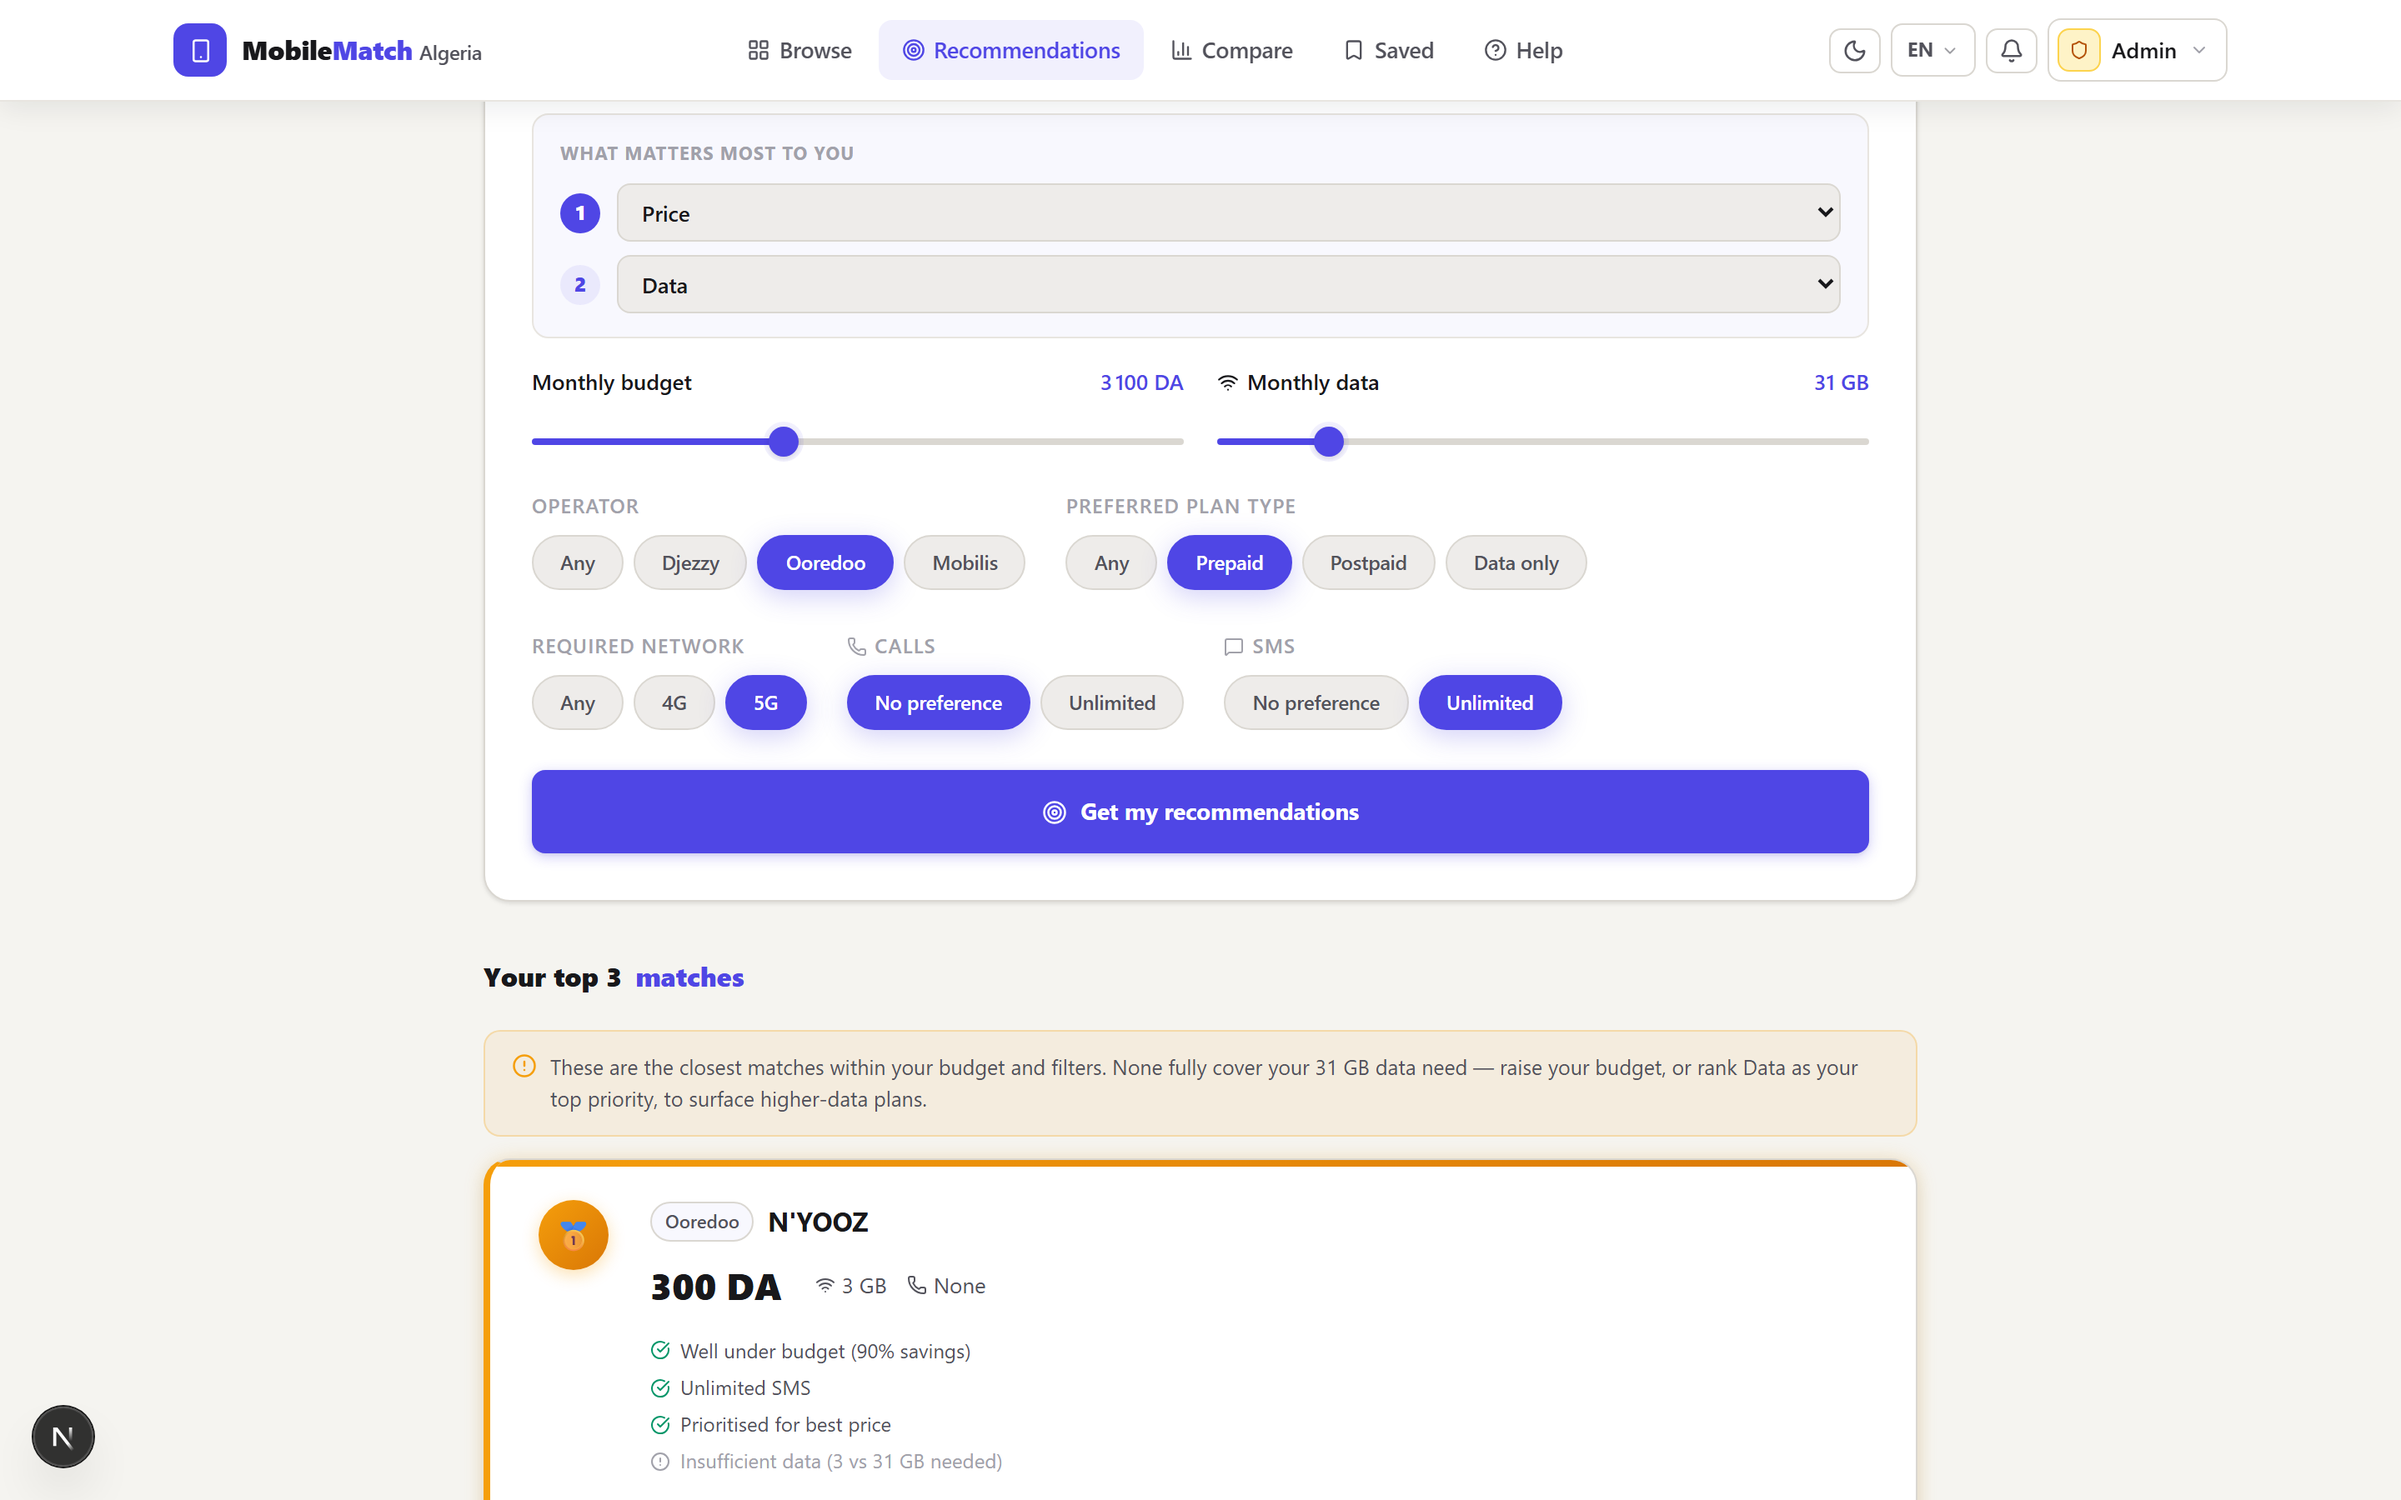
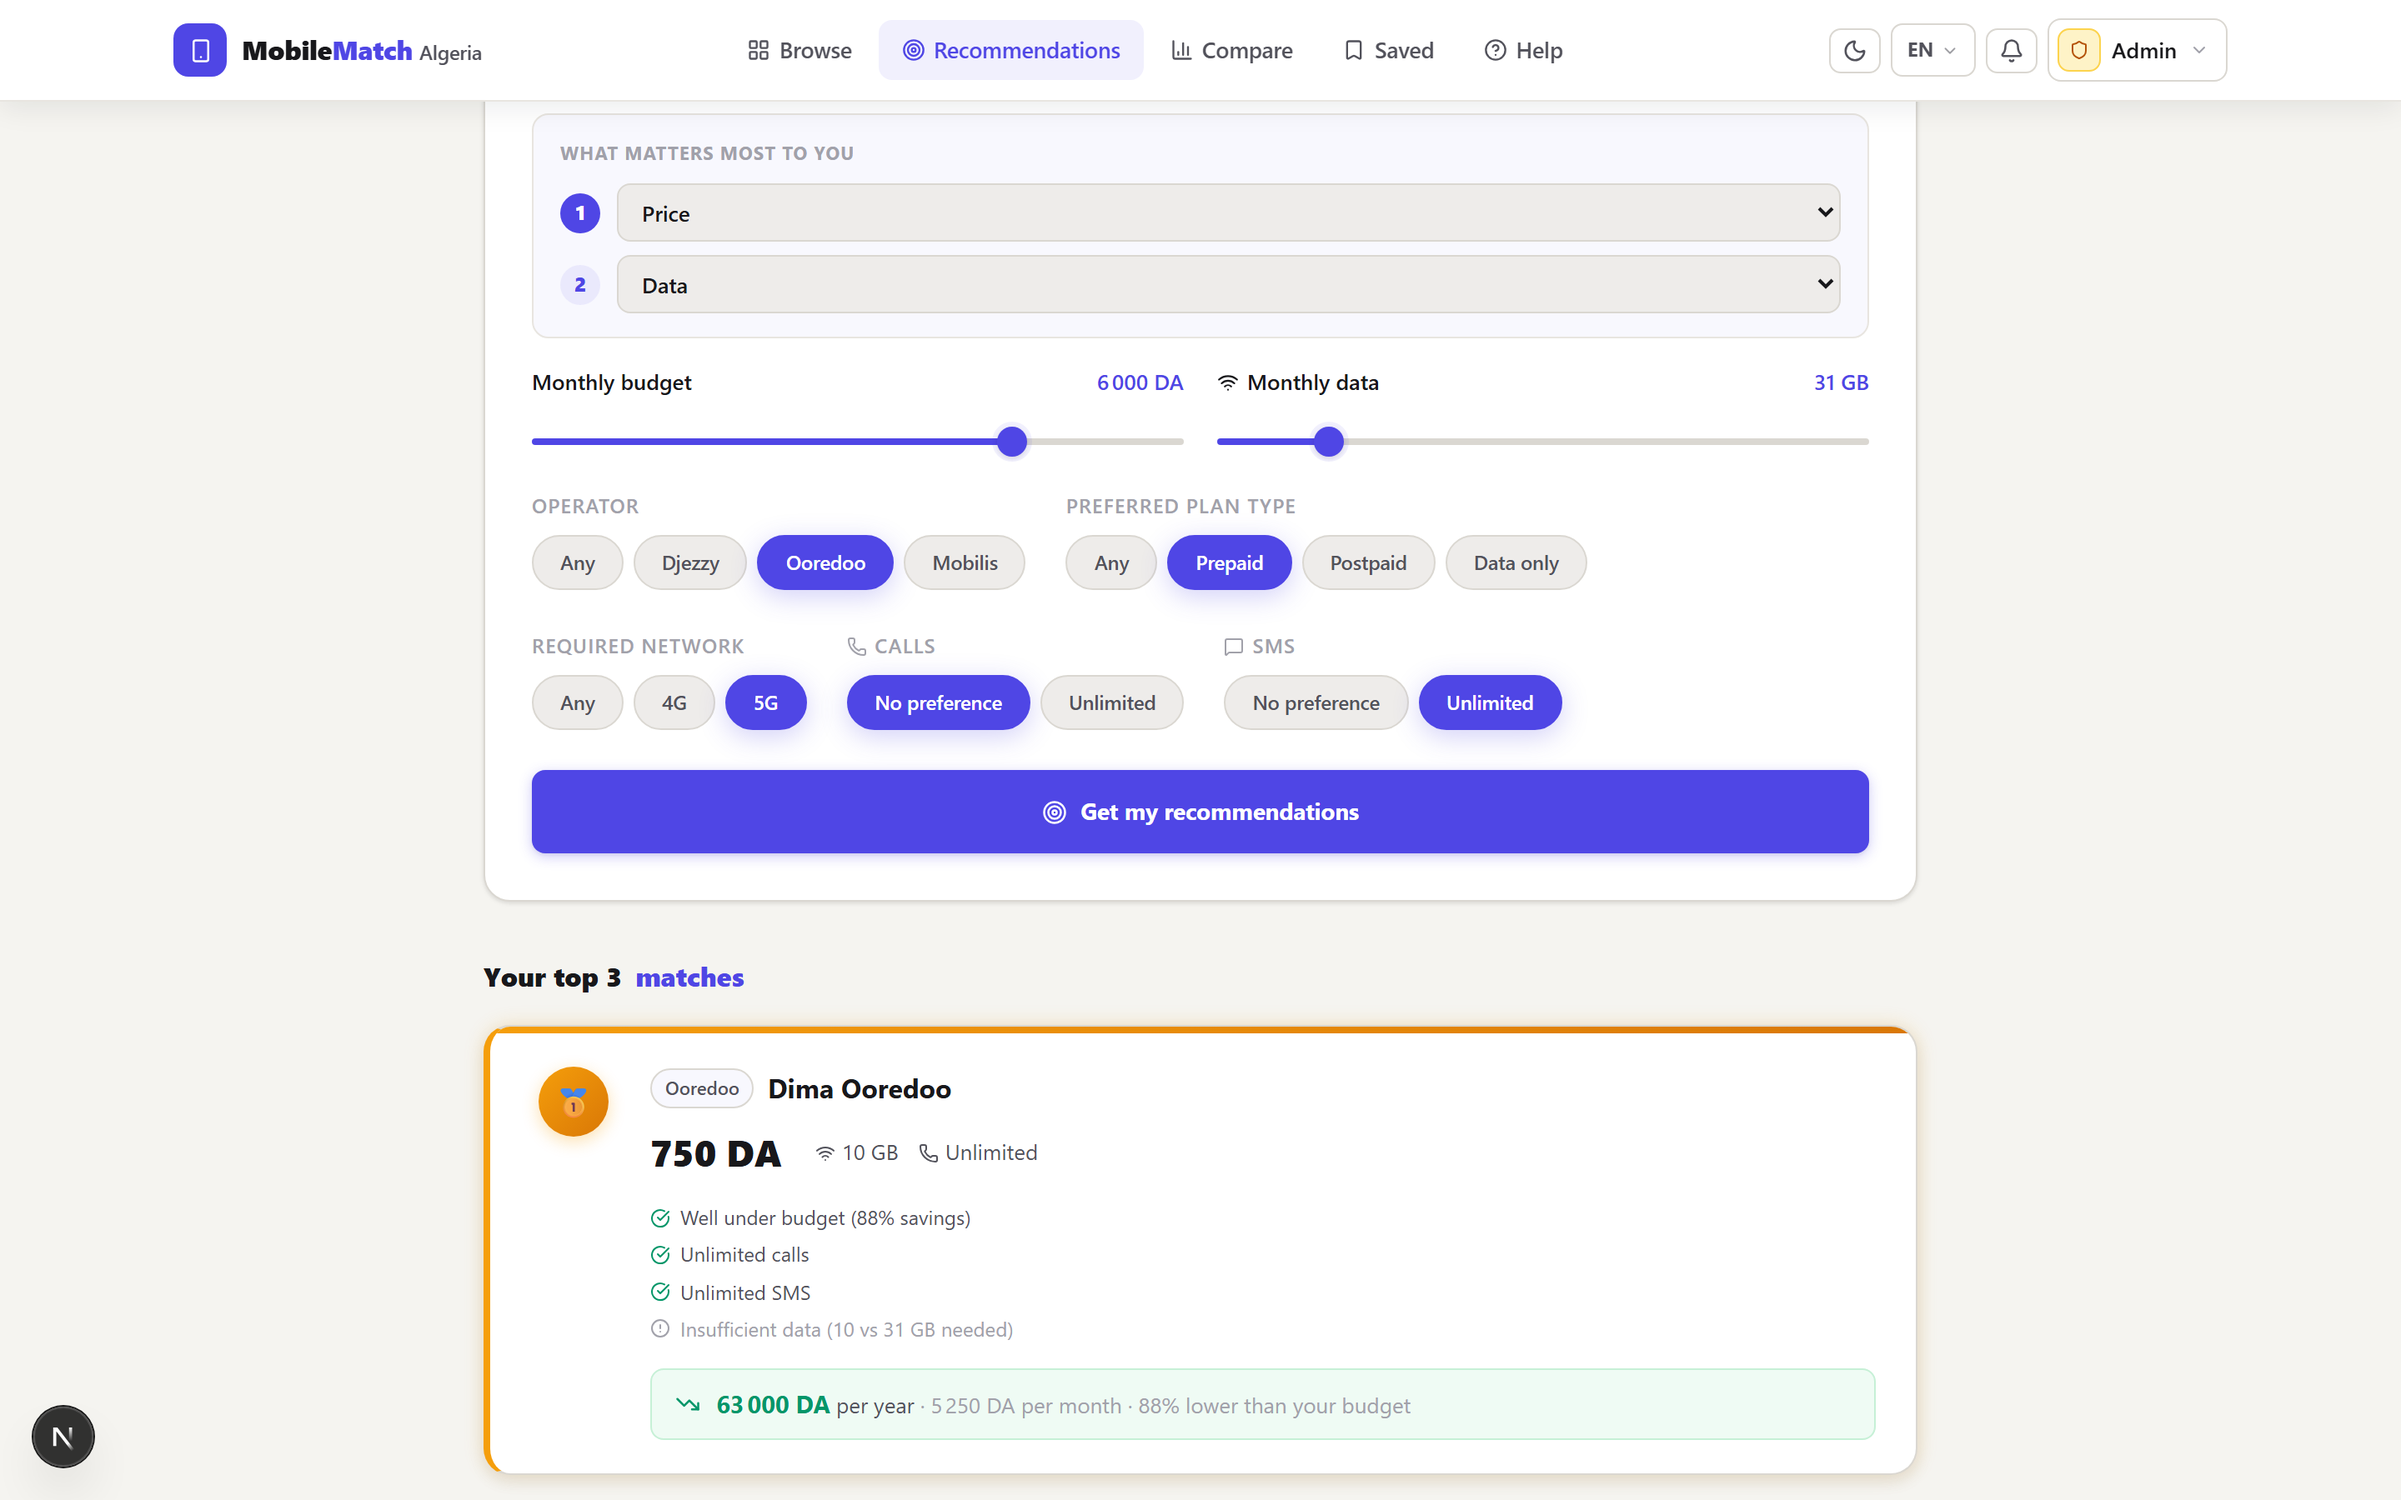
revert(recommend): remove the data-need shortfall notice
Removed the amber notice (and its FR/EN/AR i18n keys) shown when no result met the
stated data need — it added clutter without real value. The engine and its strict
priority behaviour are unchanged; the per-card 'Insufficient data' reason already
conveys the shortfall.

Changed region(s): [[0.1875, 0.6844, 0.8125, 1.0], [0.3125, 0.28, 0.4375, 0.3111]]

diff --git a/src/lib/i18n.ts b/src/lib/i18n.ts
@@ -194,7 +194,6 @@ export const translations = {
     'recommend.rankedBy':        'Ranked by match score based on your profile',
     'recommend.match':           'match',
     'recommend.noResults':       'No offers match your criteria. Try adjusting your budget or data requirements.',
-    'recommend.needNotice':      'These are the closest matches within your budget and filters. None fully cover your {data} GB data need — raise your budget, or rank Data as your top priority, to surface higher-data plans.',
     'recommend.adjustCriteria':  'Adjust my criteria',
     'recommend.adjustPanel':     'Adjust criteria',
     'recommend.updating':        'Updating...',
@@ -565,7 +564,6 @@ export const translations = {
     'recommend.rankedBy':        'Classé par score de correspondance selon votre profil',
     'recommend.match':           'correspondance',
     'recommend.noResults':       "Aucune offre ne correspond à vos critères. Essayez d'ajuster votre budget ou vos besoins en data.",
-    'recommend.needNotice':      "Voici les meilleures correspondances dans votre budget et vos filtres. Aucune ne couvre vos {data} Go demandés — augmentez votre budget, ou classez Data en priorité n°1, pour voir des forfaits avec plus de données.",
     'recommend.adjustCriteria':  'Ajuster mes critères',
     'recommend.adjustPanel':     'Ajuster les critères',
     'recommend.updating':        'Mise à jour...',
@@ -936,7 +934,6 @@ export const translations = {
     'recommend.rankedBy':        'مرتبة حسب نقاط التطابق مع ملفك الشخصي',
     'recommend.match':           'تطابق',
     'recommend.noResults':       'لا توجد عروض تطابق معاييرك. حاول تعديل ميزانيتك أو احتياجاتك من البيانات.',
-    'recommend.needNotice':      'هذه أقرب العروض ضمن ميزانيتك ومرشحاتك. لا يغطي أيٌّ منها حاجتك البالغة {data} جيغا — ارفع ميزانيتك، أو اجعل البيانات أولويتك الأولى، لرؤية عروض ببيانات أكبر.',
     'recommend.adjustCriteria':  'تعديل معاييري',
     'recommend.adjustPanel':     'تعديل المعايير',
     'recommend.updating':        'جاري التحديث...',

diff --git a/src/app/recommend/page.tsx b/src/app/recommend/page.tsx
@@ -351,23 +351,6 @@ export default function RecommendPage() {
                 )}
               </div>
 
-              {/* Need-shortfall notice — the engine honours the user's priority order,
-                  so it may top-rank a cheap low-data plan; if NONE of the results actually
-                  cover the stated data need, say so plainly and offer the way to fix it. */}
-              {!loading && results.length > 0 && dataGB > 0 &&
-                results.every(r => r.offer?.dataGB !== -1 && r.offer?.dataGB < dataGB) && (
-                <div style={{
-                  display: 'flex', gap: 8, alignItems: 'flex-start',
-                  padding: '0.75rem 1rem', marginBottom: '1rem',
-                  background: 'rgba(245,158,11,0.08)', border: '1px solid rgba(245,158,11,0.25)', borderRadius: 10,
-                }}>
-                  <AlertCircle size={15} style={{ color: '#F59E0B', flexShrink: 0, marginTop: 1 }} />
-                  <span style={{ fontSize: 12.5, color: 'var(--text-secondary)', lineHeight: 1.5 }}>
-                    {tInterp('recommend.needNotice', { data: dataGB })}
-                  </span>
-                </div>
-              )}
-
               {!initialLoaded ? (
                 <div style={{ textAlign: 'center', padding: '3rem' }}>
                   <div style={{ width: 36, height: 36, border: '3px solid var(--accent-muted)', borderTopColor: 'var(--accent)', borderRadius: '50%', animation: 'spin 0.8s linear infinite', margin: '0 auto' }} />
